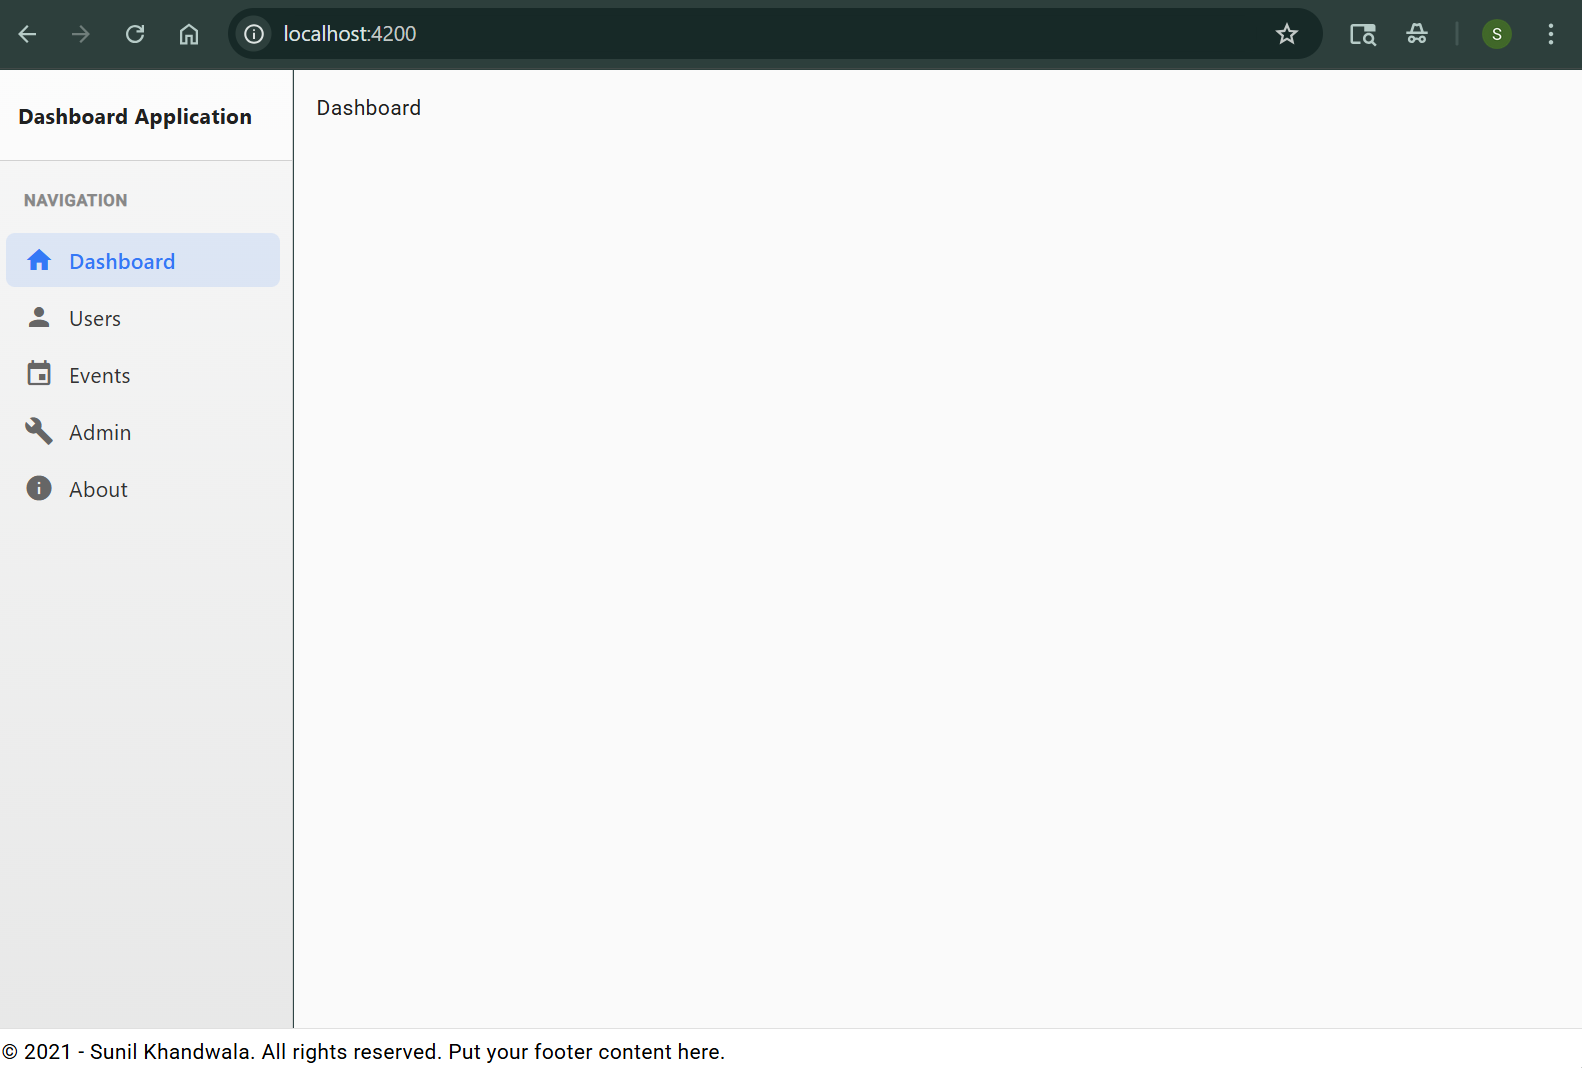
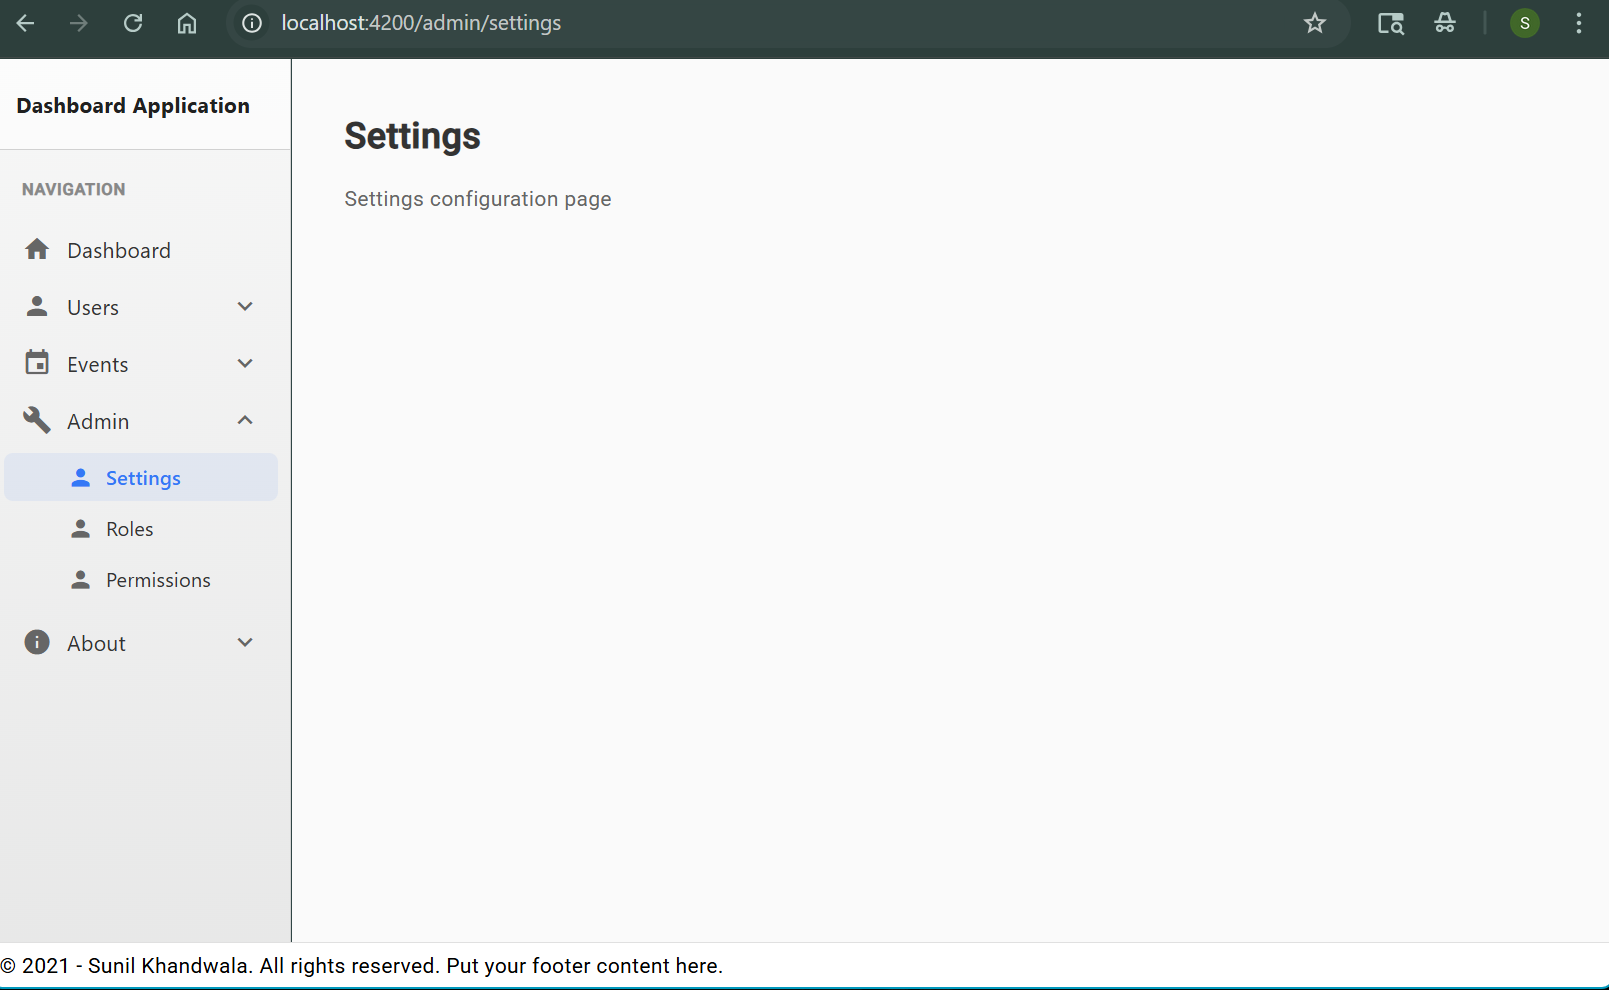
updated readme and a newer screenshot

diff --git a/README.md b/README.md
@@ -6,6 +6,22 @@ SK - 12/21/2025 - Upgraded to Angular 19 with standalone components.
 SK - 12/21/2025 - Updated the UI to a cleaner look
 SK - 12/21/2025 - Added a screenshot to the README
 
+## Make sure you have the right versions of node and npm. Recommend using nvm to manage versions
+
+``` bash
+ nvm list
+
+  * 18.19.1 (Currently using 64-bit executable)
+    18.18.1
+
+ npm --version
+  10.2.4
+
+ node --version
+  v18.19.1
+
+```
+
 ## Screenshot
 
 ![Application Screenshot](./TemplateScreenshot.png)
